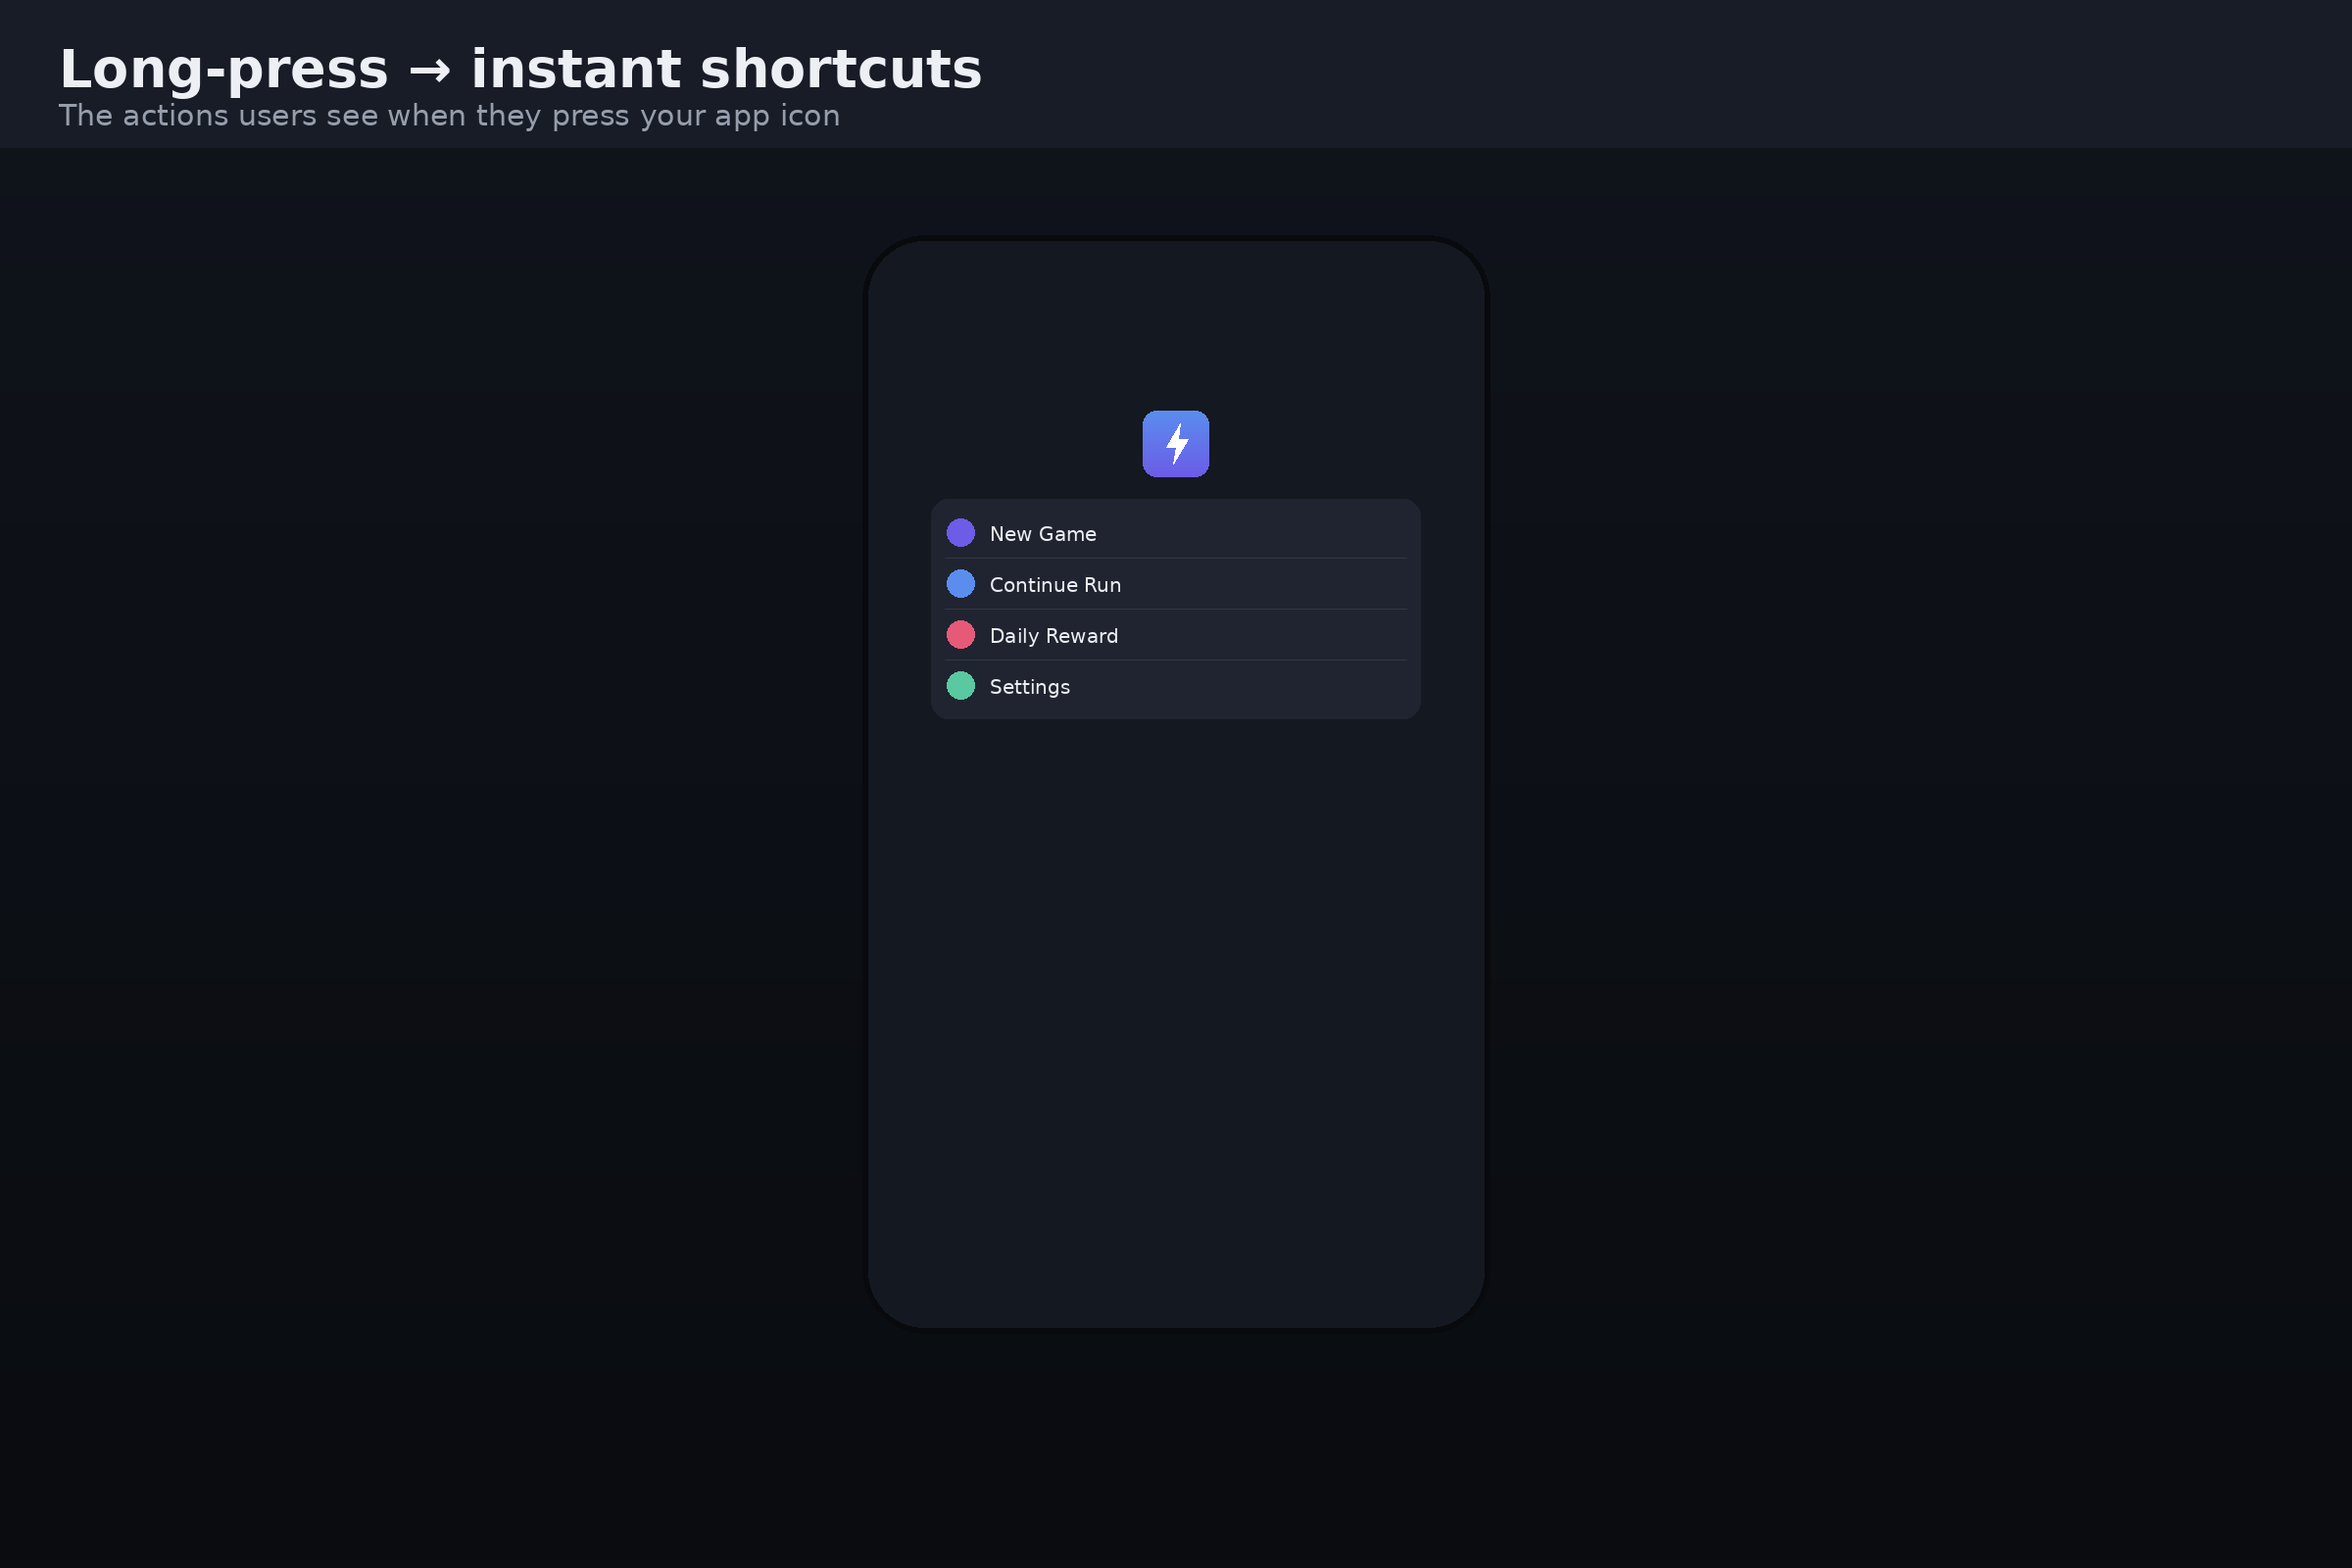
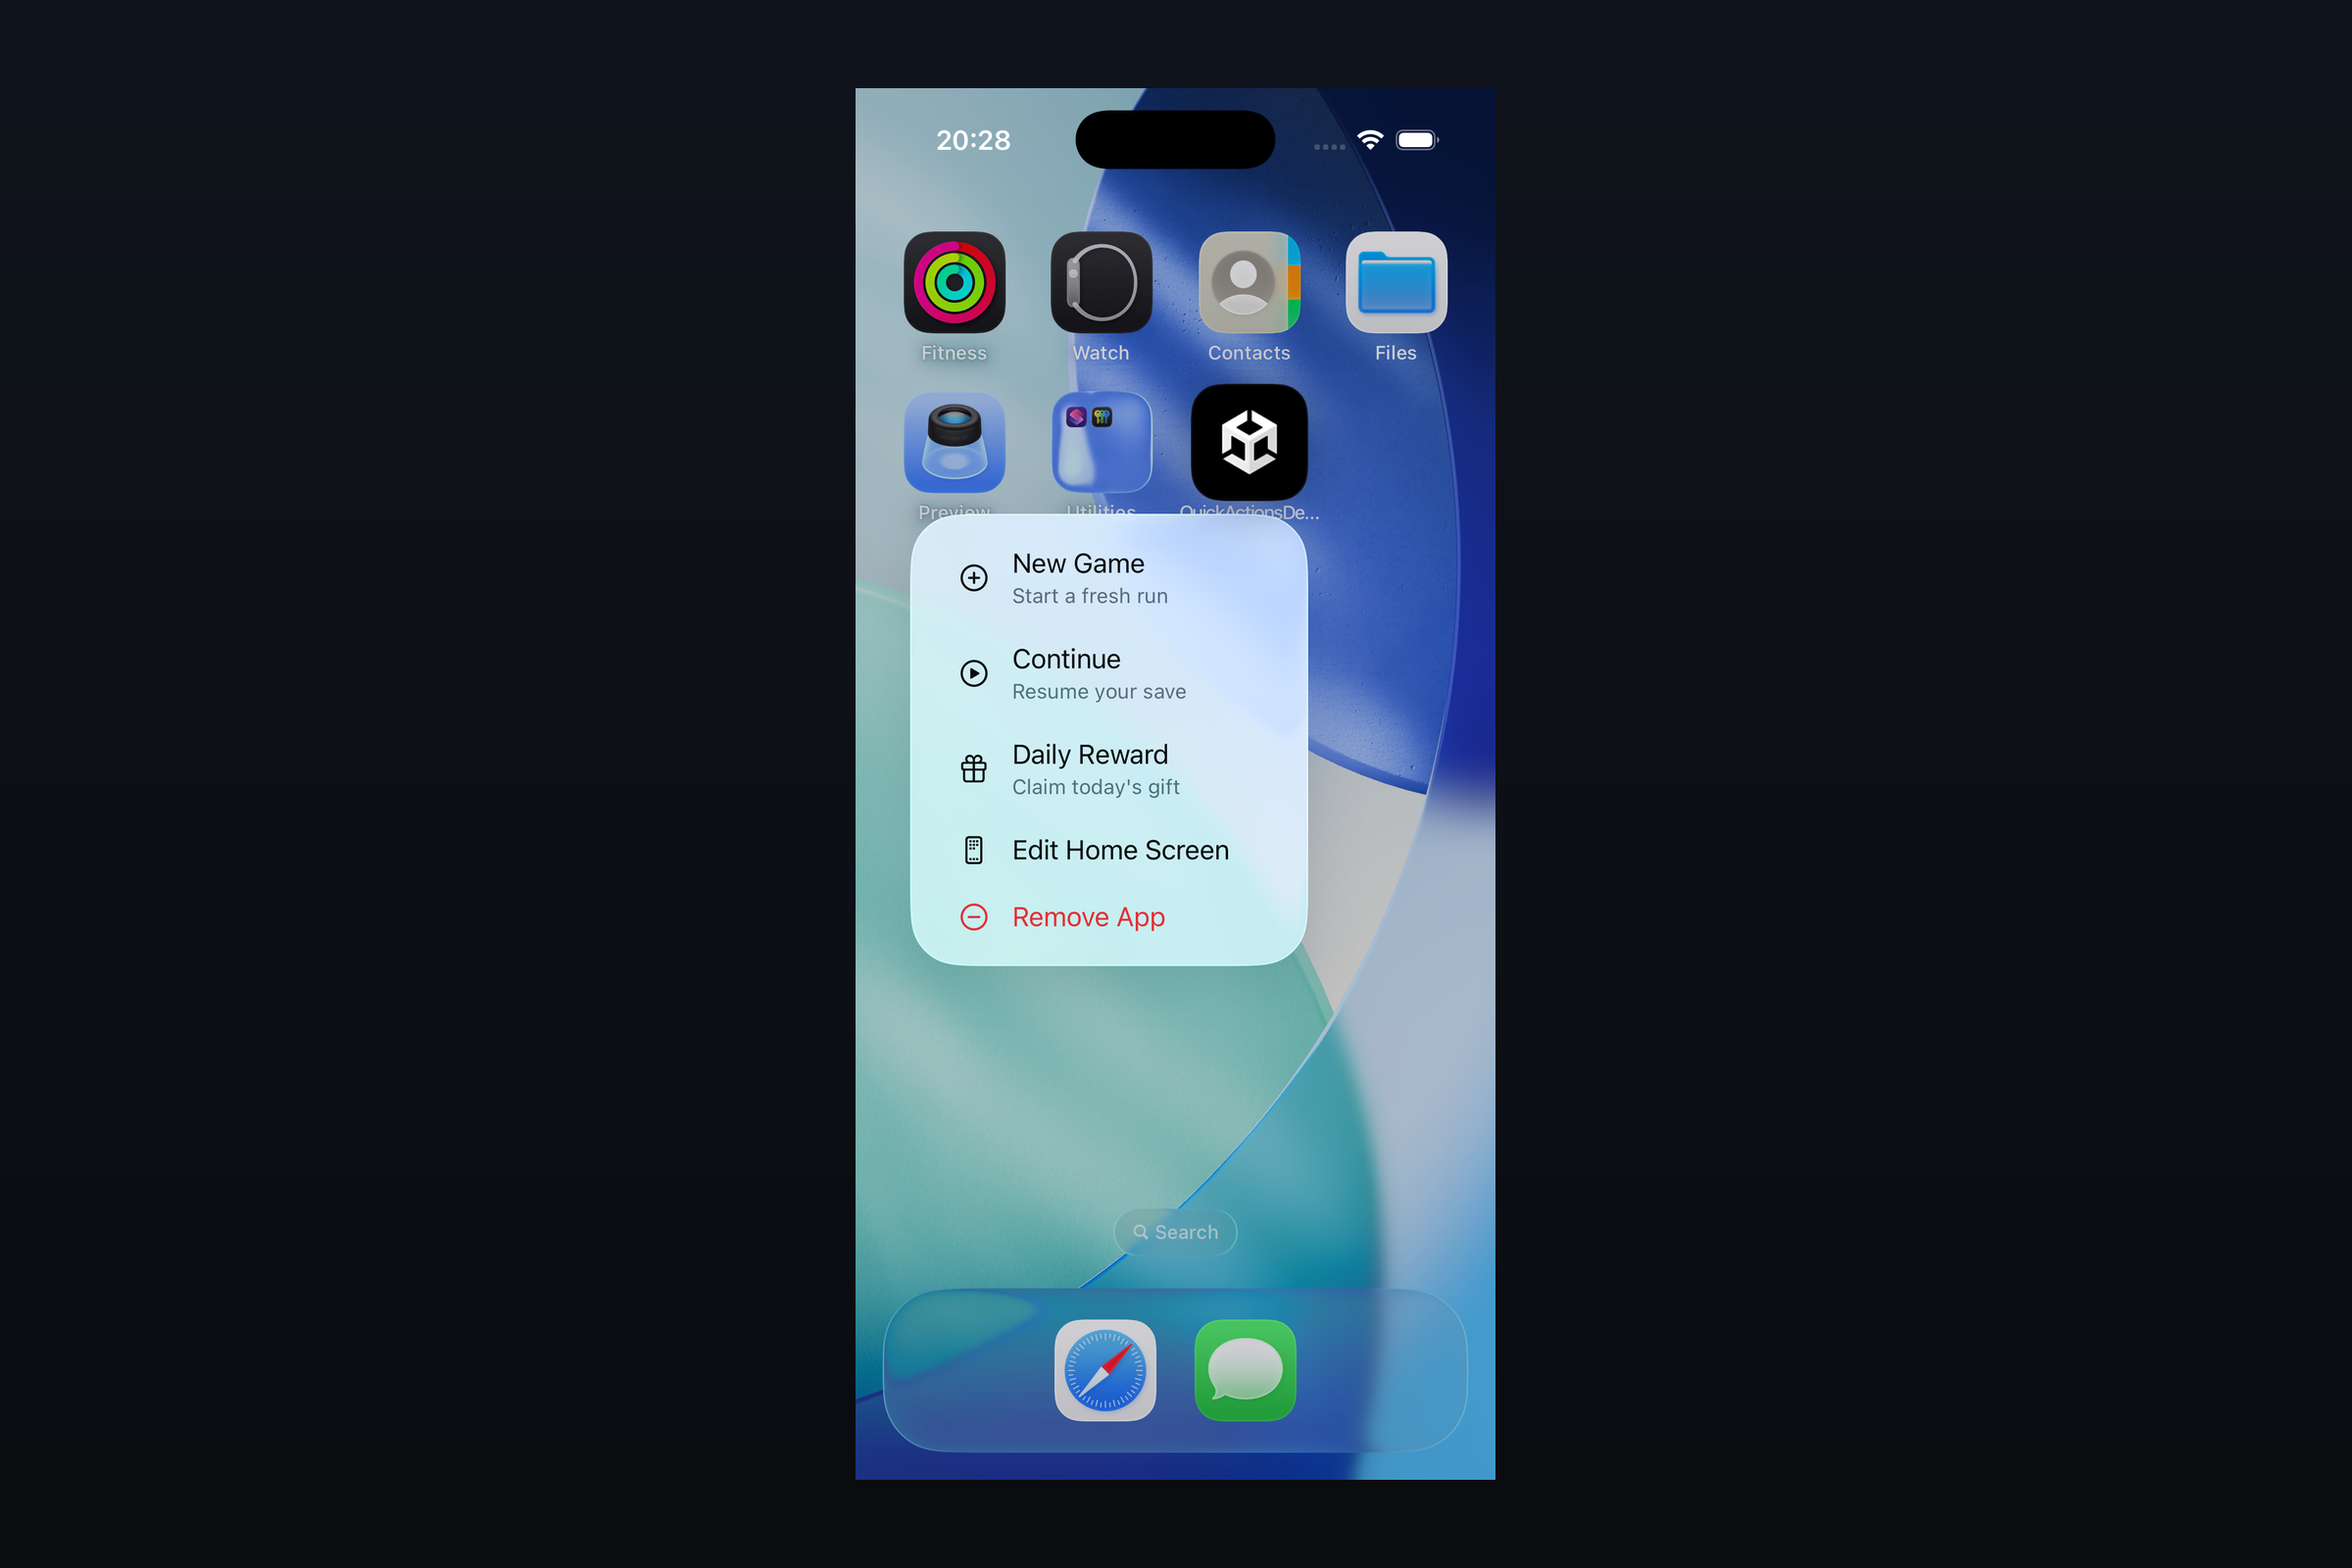
docs(store): use a real capture for screenshot-1, add the compositor
The listing screenshot was a generated mockup, and the store prefers real
in-context shots. It is now the iOS Simulator long-press menu — the actual
package running — composited onto the 2400x1600 canvas.

Compositing rather than uploading the capture directly is the point:
a portrait phone screen dropped into a landscape listing thumbnail becomes a
letterboxed sliver. tools~/make_store_screenshot.py scales it to fill the
canvas height and centres it on the same gradient the generated art uses, so
a genuine screenshot sits in the same visual family as the rest of the set.
Re-runnable against any capture, Android included.

Changed region(s): [[0.0, 0.0312, 0.6562, 0.9688]]

diff --git a/tools~/make_store_screenshot.py b/tools~/make_store_screenshot.py
@@ -1,0 +1,70 @@
+#!/usr/bin/env python3
+"""Composite a REAL device/Simulator capture onto the Asset Store canvas.
+
+The store wants screenshots at least 1200 px wide, and prefers real in-context
+shots over mockups. A raw phone capture satisfies neither well on its own: a
+portrait phone screen is the wrong shape for a landscape listing thumbnail, and
+gets letterboxed into a sliver.
+
+This scales the capture to fill the canvas height, centres it, and fills the
+background with the same gradient `gen_store_images.py` uses, so a genuine
+screenshot sits in the same visual family as the generated art.
+
+  python3 tools~/make_store_screenshot.py <capture.png> store~/screenshot-1.png
+
+Needs Pillow (dev-only):  pip install Pillow
+"""
+from __future__ import annotations
+
+import os
+import sys
+
+try:
+    from PIL import Image
+except ImportError:
+    sys.exit("This script needs Pillow (dev-only): pip install Pillow")
+
+W, H = 2400, 1600          # the size the store listing uses
+TOP = (16, 20, 28)         # matches gen_store_images.vgrad()
+BOT = (10, 12, 16)
+MARGIN = 90                # breathing room above/below the device
+
+
+def vgrad(w: int, h: int, top, bot) -> "Image.Image":
+    img = Image.new("RGB", (w, h), top)
+    px = img.load()
+    for y in range(h):
+        t = y / max(1, h - 1)
+        c = tuple(int(top[i] + (bot[i] - top[i]) * t) for i in range(3))
+        for x in range(w):
+            px[x, y] = c
+    return img
+
+
+def main(argv: list[str]) -> int:
+    if len(argv) != 3:
+        sys.exit(__doc__)
+    src_path, out_path = argv[1], argv[2]
+    if not os.path.isfile(src_path):
+        sys.exit(f"no such capture: {src_path}")
+
+    shot = Image.open(src_path).convert("RGB")
+    target_h = H - 2 * MARGIN
+    scale = target_h / shot.height
+    new_w = max(1, int(shot.width * scale))
+    if new_w > W - 2 * MARGIN:                  # very wide capture: fit width
+        scale = (W - 2 * MARGIN) / shot.width
+        new_w = W - 2 * MARGIN
+        target_h = int(shot.height * scale)
+    shot = shot.resize((new_w, target_h), Image.LANCZOS)
+
+    canvas = vgrad(W, H, TOP, BOT)
+    canvas.paste(shot, ((W - new_w) // 2, (H - target_h) // 2))
+    canvas.save(out_path)
+    print(f"wrote {out_path} ({W}x{H}) from {src_path} "
+          f"({Image.open(src_path).size[0]}x{Image.open(src_path).size[1]})")
+    return 0
+
+
+if __name__ == "__main__":
+    sys.exit(main(sys.argv))

diff --git a/store~/README.md b/store~/README.md
@@ -11,7 +11,7 @@ Regenerate with `python3 tools~/gen_store_images.py`.
 | `card.png` | 420×280 | Card (browse thumbnail) |
 | `cover.png` | 1950×1300 | Cover (main product image) |
 | `social.png` | 1200×630 | Social media |
-| `screenshot-1.png` | 2400×1600 | Screenshot — long-press menu |
+| `screenshot-1.png` | 2400×1600 | **Real capture** — iOS Simulator long-press menu, composited by `tools~/make_store_screenshot.py` |
 | `screenshot-2.png` | 2400×1600 | Screenshot — C# API |
 | `screenshot-3.png` | 2400×1600 | Screenshot — feature grid |
 | `example-shortcut-icons/*.png` | 96×96 | Example Android shortcut drawables |
@@ -28,10 +28,10 @@ where relative paths are unreliable.
 
 ## Before publishing
 
-- The three screenshots are **clean mockups**, not live captures. The store
-  prefers real in-context shots — replace `screenshot-1` with an actual
-  on-device long-press of the demo, and `screenshot-2` with a real IDE view if
-  you want. Mockups are acceptable but real device shots convert better.
+- `screenshot-1.png` is now a **real capture**. `screenshot-2` and `-3` are
+  still generated mockups; the store accepts those, but a real IDE view for
+  `-2` would convert better. Regenerate `-1` from any device capture with
+  `python3 tools~/make_store_screenshot.py <capture.png> store~/screenshot-1.png`.
 - Images contain minimal text and no watermarks (guideline-compliant). Keep the
   icon text-free.
 - `example-shortcut-icons/` are functional: drop them into your app's

diff --git a/STORE_CHECKLIST.md b/STORE_CHECKLIST.md
@@ -76,9 +76,12 @@ All sizes are ✅ pre-built by `python3 tools~/gen_store_images.py`. See
 - [x] **Cover** 1950×1300 — `store~/cover.png`
 - [x] **Social** 1200×630 — `store~/social.png`
 - [x] **Screenshots** ≥1200w (2400×1600 here), ≥1 — `store~/screenshot-*.png`
-- [ ] ⚠ Replace `screenshot-1` with a **real on-device** long-press capture
-      before submitting (store prefers in-context shots over mockups). Optional
-      but improves approval odds & conversion.
+- [x] `screenshot-1.png` is a **real capture**, not a mockup (2026-08-07): the
+      iOS Simulator long-press menu, composited onto the 2400×1600 canvas with
+      `python3 tools~/make_store_screenshot.py <capture.png> store~/screenshot-1.png`.
+      A raw phone capture is the wrong shape for a landscape listing thumbnail;
+      the tool scales and centres it on the same gradient the generated art uses.
+      Re-run it with an Android capture if you want that platform shown too.
 - [x] Key-image text rules (checked 2026-08-07, images regenerated to match):
       icon and **social** carry no text at all; **card** carries only the asset
       title and publisher name; **cover** carries the title plus one tag line.
